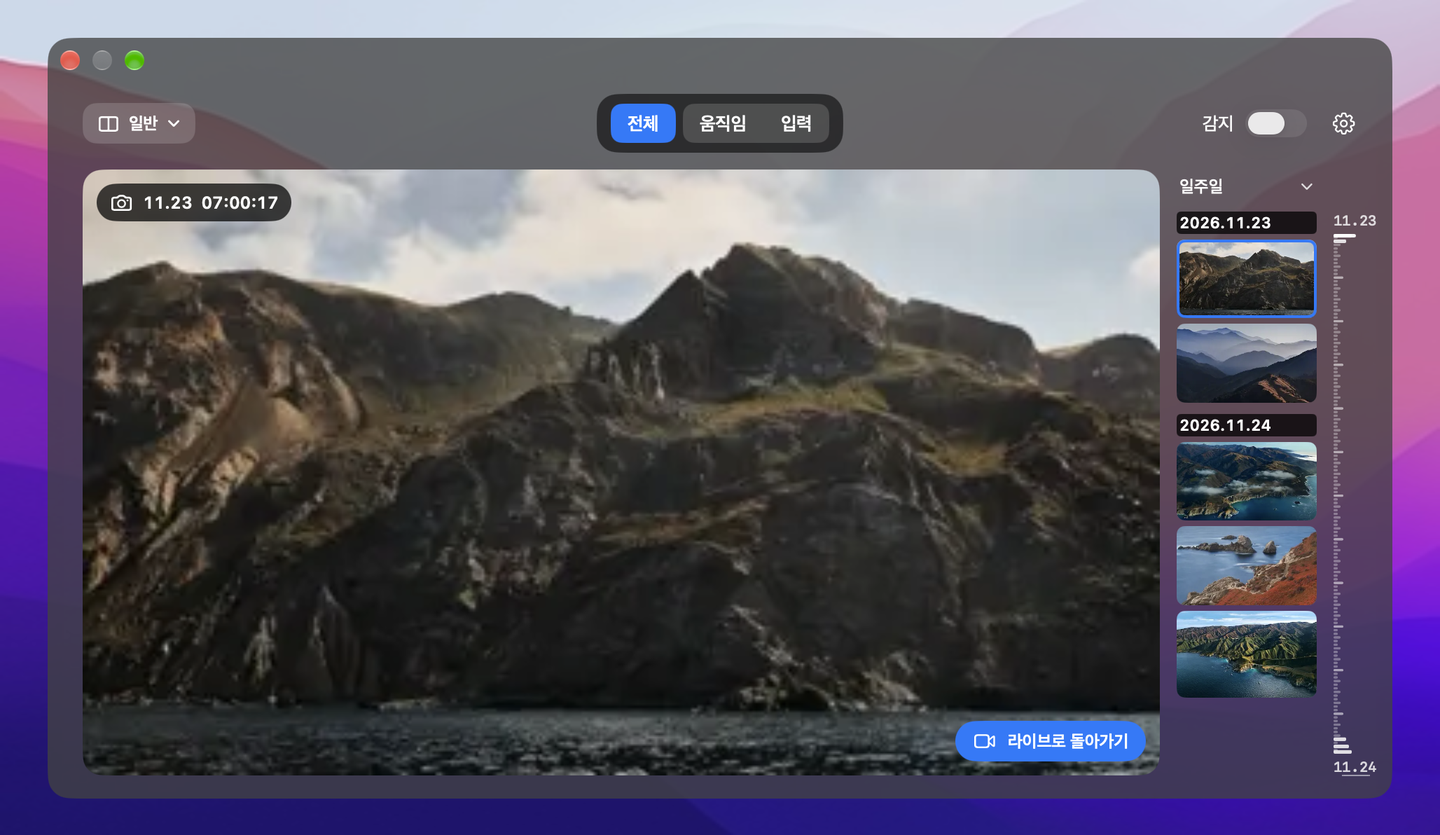
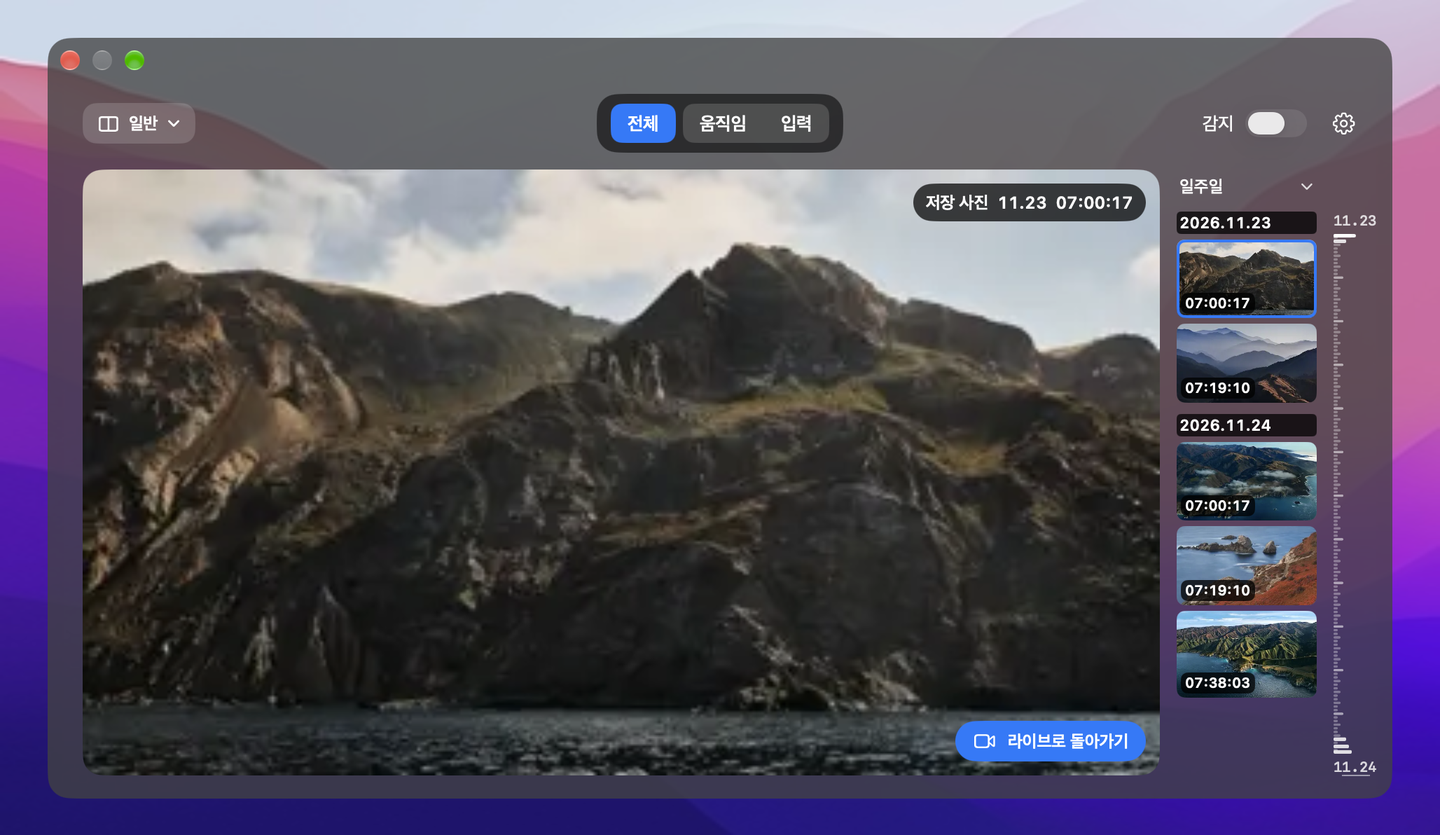
자리기록 0.3.13 썸네일 촬영 시각과 온에어 시계 표시

diff --git a/Sources/StandardGallery.swift b/Sources/StandardGallery.swift
@@ -101,6 +101,22 @@ struct StandardGallery: View {
         .accessibilityAddTraits(selected == item ? .isSelected : [])
     }
 
+    private func timestamp(_ title: String, date: Date? = nil, live: Bool = false) -> some View {
+        HStack(spacing: 6) {
+            if live {
+                Circle().fill(.green).frame(width: 6, height: 6).accessibilityHidden(true)
+            }
+            Text(title)
+            if let date { Text(ArchiveText.fullStamp.string(from: date)).monospacedDigit() }
+        }
+        .font(.system(size: 12, weight: .semibold))
+        .lineLimit(1).minimumScaleFactor(0.8)
+        .padding(.horizontal, 9).padding(.vertical, 6)
+        .background(.black.opacity(0.72), in: Capsule()).padding(10)
+        .accessibilityElement(children: .combine)
+        .allowsHitTesting(false)
+    }
+
     private var viewer: some View {
         let ratio = selected.flatMap { Picture.aspectRatio(at: $0.url) } ?? feed.displayRatio ?? GalleryLayout.defaultVideoAspect
         return Color.clear.aspectRatio(ratio, contentMode: .fit)
@@ -123,18 +139,18 @@ struct StandardGallery: View {
         .background {
             if selected == nil && feed.preview == nil { Color.black.opacity(0.56) }
         }
-        .overlay(alignment: .topLeading) {
-            HStack(spacing: 6) {
-                if let selected {
-                    Image(systemName: selected.kind.symbol)
-                    Text(ArchiveText.fullStamp.string(from: selected.date)).monospacedDigit()
-                } else {
-                    Image(systemName: "video")
-                    Text(feed.preview == nil ? "카메라" : "온에어")
+        .overlay(alignment: .topTrailing) {
+            if let selected {
+                timestamp("저장 사진", date: selected.date)
+            } else if feed.preview != nil {
+                TimelineView(.periodic(from: .now, by: 1)) { _ in
+                    if let date = feed.previewFrameDate(at: .now) {
+                        timestamp("온에어", date: date, live: true)
+                    } else {
+                        timestamp("영상 대기")
+                    }
                 }
-            }.font(.system(size: 12, weight: .semibold))
-            .padding(.horizontal, 9).padding(.vertical, 6)
-            .background(.black.opacity(0.72), in: Capsule()).padding(10)
+            }
         }
         .overlay(alignment: .bottomTrailing) {
             if selected != nil {

diff --git a/Sources/ArchiveBrowser.swift b/Sources/ArchiveBrowser.swift
@@ -85,33 +85,29 @@ struct RecordThumbnail: View {
     let record: CaptureRecord
     let selected: Bool
     var mode: GalleryMode = .mini
-    @State private var hovered = false
 
     var body: some View {
         let shape = RoundedRectangle(cornerRadius: mode == .mini ? 12 : 6, style: .continuous)
         let tile = shape.fill(GlassInk.capsule)
             .overlay { FileImage(url: record.url, detail: false, contentMode: mode == .mini ? .fill : .fit) }
             .overlay(alignment: .bottomLeading) {
-                if mode == .mini || hovered {
-                    HStack(spacing: 5) {
-                        if mode == .mini { Image(systemName: record.kind.symbol) }
-                        Text(ArchiveText.clock.string(from: record.date))
-                    }
-                    .font(.system(size: 10, weight: .semibold)).monospacedDigit()
-                    .lineLimit(1).padding(.horizontal, mode == .mini ? 6 : 3)
-                    .padding(.vertical, mode == .mini ? 3 : 1)
-                    .background(.black.opacity(0.76), in: RoundedRectangle(cornerRadius: 5))
-                    .padding(mode == .mini ? 6 : 3)
-                    .allowsHitTesting(false)
-                    .accessibilityHidden(true)
+                HStack(spacing: 5) {
+                    if mode == .mini { Image(systemName: record.kind.symbol) }
+                    Text(ArchiveText.clock.string(from: record.date))
                 }
+                .font(.system(size: 10, weight: .semibold)).monospacedDigit()
+                .lineLimit(1).padding(.horizontal, mode == .mini ? 6 : 3)
+                .padding(.vertical, mode == .mini ? 3 : 1)
+                .background(.black.opacity(0.76), in: RoundedRectangle(cornerRadius: 5))
+                .padding(mode == .mini ? 6 : 3)
+                .allowsHitTesting(false)
+                .accessibilityHidden(true)
             }
             .clipShape(shape)
             .overlay { if selected { shape.strokeBorder(GlassInk.blue, lineWidth: mode == .mini ? 3 : 2) } }
             .contentShape(shape)
         if mode == .standard {
             tile.aspectRatio(Picture.aspectRatio(at: record.url) ?? 1, contentMode: .fit)
-                .onHover { hovered = $0 }
         } else {
             tile
         }

diff --git a/Tests/Checks.swift b/Tests/Checks.swift
@@ -33,11 +33,19 @@ struct Checks {
         RunLoop.current.run(until: Date().addingTimeInterval(0.1))
         let session = feed.preview
         try expect(session != nil && starts == 1, "live preview starts one camera")
-        for (width, height) in [(320, 240), (640, 360)] {
+        try expect(feed.previewFrameDate(at: .now) == nil, "a camera session alone cannot show an on-air clock")
+        let firstFrame = Date(timeIntervalSince1970: 1_795_500_000)
+        for (index, dimensions) in [(320, 240), (640, 360)].enumerated() {
+            let (width, height) = dimensions
+            let received = firstFrame.addingTimeInterval(Double(index) * 5)
             var buffer: CVPixelBuffer?
             guard CVPixelBufferCreate(nil, width, height, kCVPixelFormatType_32BGRA, nil, &buffer) == kCVReturnSuccess,
                   let buffer, let source else { throw AppProblem("라이브 비율 시험 프레임 생성 실패") }
-            source.processFrame(buffer)
+            source.processFrame(buffer, receivedAt: received)
+            try expect(feed.previewFrameDate(at: received.addingTimeInterval(1)) == received,
+                       "only the arrival of a new frame advances the on-air clock")
+            try expect(feed.previewFrameDate(at: received.addingTimeInterval(2)) == nil,
+                       "a stalled stream loses its on-air timestamp")
             RunLoop.current.run(until: Date().addingTimeInterval(0.05))
             try expect(feed.displayRatio == CGFloat(width) / CGFloat(height), "live surface follows the received frame aspect before arming")
         }
@@ -49,6 +57,8 @@ struct Checks {
         RunLoop.current.run(until: Date().addingTimeInterval(0.1))
         try expect(armed && starts == 1, "arming motion reuses the preview camera")
         feed.showPreview(false)
+        try expect(feed.previewFrameDate(at: firstFrame.addingTimeInterval(5)) == nil,
+                   "a hidden preview omits the clock even if detection keeps the camera open")
         feed.showPreview(true)
         RunLoop.current.run(until: Date().addingTimeInterval(0.1))
         try expect(feed.preview === session && starts == 1, "toggling views preserves armed camera")

diff --git a/Sources/MotionCamera.swift b/Sources/MotionCamera.swift
@@ -1,5 +1,6 @@
 import AVFoundation
 import CoreImage
+import os
 
 // The session, gate and observers are confined to the serial camera queue.
 final class MotionCamera: NSObject, AVCaptureVideoDataOutputSampleBufferDelegate, @unchecked Sendable {
@@ -7,6 +8,8 @@ final class MotionCamera: NSObject, AVCaptureVideoDataOutputSampleBufferDelegate
     let session = AVCaptureSession()
     private let context = CIContext(options: [.cacheIntermediates: false])
     private var observers = [NSObjectProtocol]()
+    // The capture queue writes here; only the on-screen clock samples the value.
+    private let frameDate = OSAllocatedUnfairLock<Date?>(initialState: nil)
     private var lastSample = -Double.infinity
     private var gate: MotionGate?
     private var onImage: (@Sendable (CGImage, Date) -> Void)?
@@ -88,7 +91,15 @@ final class MotionCamera: NSObject, AVCaptureVideoDataOutputSampleBufferDelegate
         processFrame(buffer)
     }
 
-    func processFrame(_ buffer: CVPixelBuffer) {
+    func recentFrameDate(at now: Date) -> Date? {
+        frameDate.withLock { received in
+            guard let received, abs(now.timeIntervalSince(received)) < 2 else { return nil }
+            return received
+        }
+    }
+
+    func processFrame(_ buffer: CVPixelBuffer, receivedAt date: Date = .now) {
+        frameDate.withLock { $0 = date }
         let size = CVImageBufferGetDisplaySize(buffer)
         if size.width > 0, size.height > 0, size != lastDisplaySize {
             lastDisplaySize = size
@@ -98,7 +109,6 @@ final class MotionCamera: NSObject, AVCaptureVideoDataOutputSampleBufferDelegate
         guard let onImage, now - lastSample >= 0.18 else { return }
         lastSample = now
         guard gate?.shouldCapture(Self.luminance(buffer), at: now) == true else { return }
-        let date = Date()
         let source = CIImage(cvPixelBuffer: buffer)
         guard let image = context.createCGImage(source, from: source.extent) else {
             onFailure("카메라에서 사진을 만들지 못했습니다.")

diff --git a/Sources/CameraFeed.swift b/Sources/CameraFeed.swift
@@ -54,6 +54,11 @@ final class CameraFeed: ObservableObject {
         }
     }
 
+    func previewFrameDate(at now: Date) -> Date? {
+        guard preview != nil else { return nil }
+        return camera?.recentFrameDate(at: now)
+    }
+
     func beginDetection(minutes: Int, lastMotion: Date? = nil, onImage: @escaping @Sendable (CGImage, Date) -> Void,
                         onFailure: @escaping (String) -> Void) async throws {
         let id = UUID()

diff --git a/README.md b/README.md
@@ -4,7 +4,7 @@
 
 **macOS 14 이상 · Apple Silicon 및 Intel 지원**
 
-[자리기록 0.3.12 설치 파일 받기](https://github.com/sundaynighttt/desk-trace/releases/download/v0.3.12/DeskTrace-0.3.12.dmg) · [릴리스 기록](https://github.com/sundaynighttt/desk-trace/releases)
+[자리기록 0.3.13 설치 파일 받기](https://github.com/sundaynighttt/desk-trace/releases/download/v0.3.13/DeskTrace-0.3.13.dmg) · [릴리스 기록](https://github.com/sundaynighttt/desk-trace/releases)
 
 ![시험용 사진으로 본 일반 모드. 왼쪽에 선택한 사진이 크게 보이고 오른쪽에 날짜별 사진 목록과 시작일·종료일을 표시한 세로 시간 눈금이 있습니다.](docs/gallery.png)
 
@@ -38,12 +38,12 @@
 | --- | --- | --- |
 | 화면 구성 | 작은 사진 한 줄과 아래쪽 시간축. 처음에는 사진 한 줄에 맞는 최소 높이로 열립니다. | 왼쪽에 라이브 영상 또는 선택한 사진, 오른쪽에 날짜별 사진 목록과 세로 시간축이 있습니다. |
 | 탐색 방향 | 왼쪽이 과거, 오른쪽이 최신입니다. 처음 열거나 필터를 바꾸면 최신 사진이 보입니다. | 위가 과거, 아래가 최신입니다. 스크롤하면 오른쪽 사진 목록만 움직입니다. |
-| 기간과 촬영 시각 | 왼쪽 상단에서 기간을 고릅니다. 각 사진에 촬영 시각이 항상 보입니다. | 사진 목록 맨 위에서 기간을 고릅니다. 스크롤 중에도 해당 날짜가 남고, 사진을 가리키면 그 사진 안에 촬영 시각이 보입니다. |
+| 기간과 촬영 시각 | 왼쪽 상단에서 기간을 고릅니다. 각 사진에 촬영 시각이 항상 보입니다. | 사진 목록 맨 위에서 기간을 고릅니다. 스크롤 중에도 해당 날짜가 남고, 각 사진 왼쪽 아래에 촬영 시각(시·분·초)이 항상 보입니다. |
 | 사진 선택 | 사진을 클릭하면 원래 비율로 크게 열립니다. 아래 눈금을 가리키면 해당 기록이 보이고, 클릭하면 선택이 고정됩니다. 좌우 방향키로 이동할 수 있습니다. | 사진이나 눈금을 클릭하면 왼쪽에 해당 사진이 원래 비율로 표시됩니다. 사진 오른쪽 아래의 **라이브로 돌아가기**를 누르면 현재 카메라 영상으로 돌아갑니다. |
 
 미니 모드에서는 노란 막대가 현재 보고 있는 기록을 가리킵니다. 일반 모드에서는 **짧은 흰색 눈금**이 선택한 사진을 가리키고, 라이브 화면에서는 조회 조건 안의 최신 기록을 가리킵니다. 사진과 시간축 사이는 12포인트이며, 양 끝의 월·일과 모든 눈금은 같은 왼쪽 선에서 시작합니다.
 
-일반 모드의 라이브 영상은 카메라가 보내는 화면 비율로 표시합니다. 촬영 정보와 **라이브로 돌아가기** 버튼은 사진 위에 겹쳐 표시됩니다. 과거 사진을 보고 있는 동안 새 기록이 들어와도 선택한 사진과 목록 위치가 유지됩니다. 조회 조건을 바꿔 그 사진이 목록에서 빠지면 라이브로 돌아갑니다. 감지를 끄고 라이브만 볼 때는 저장하지 않으며, 카메라 권한이 없어도 저장된 사진은 열 수 있습니다.
+일반 모드의 라이브 영상은 카메라가 보내는 화면 비율로 표시합니다. 영상 오른쪽 위의 초록 점과 **온에어** 옆에는 카메라에서 받은 최신 영상의 월·일과 시·분·초가 보입니다. 영상 수신이 멎으면 시간이 더 흐르지 않고 **영상 대기**로 바뀝니다. 저장 사진을 선택하면 같은 자리에 **저장 사진**과 고정된 촬영 시각이 표시됩니다. **라이브로 돌아가기** 버튼은 사진 오른쪽 아래에 있습니다. 과거 사진을 보고 있는 동안 새 기록이 들어와도 선택한 사진과 목록 위치가 유지됩니다. 조회 조건을 바꿔 그 사진이 목록에서 빠지면 라이브로 돌아갑니다. 감지를 끄고 라이브만 볼 때는 저장하지 않으며, 카메라 권한이 없어도 저장된 사진은 열 수 있습니다.
 
 <details>
 <summary>미니 모드 화면 보기</summary>
@@ -55,7 +55,7 @@
 <details>
 <summary>화면 설계 기준</summary>
 
-일반 모드의 오른쪽 저장 사진은 같은 창에서 0.3.0 사진 폭의 1/3에 가장 가까운 짝수 포인트로 표시합니다. 사진 높이는 저장된 원본의 가로·세로 비율에 맞춥니다. 960포인트 창에서 폭은 100포인트이고, 16:9 사진의 높이는 약 56포인트, 정사각형 사진은 100포인트입니다. 사진 목록의 기간 메뉴는 사진과 같은 폭의 24포인트 높이 줄입니다. 선택한 기간은 첫 날짜와 왼쪽을 맞추고 펼침 화살표는 오른쪽에 둡니다. 평소 배경은 투명하고, 포인터를 올리면 옅은 회색 배경이 나타납니다. 줄 전체를 눌러 기간을 선택합니다. 시간축의 날짜는 10포인트 고정폭 글꼴을 사용하고, 시간축 영역 오른쪽과 창 가장자리 사이에는 10포인트를 둡니다. 날짜는 맥의 현지 날짜별 묶음 맨 위에 한 번 표시합니다. 사진에 포인터를 올리면 해당 사진의 왼쪽 아래에 촬영 시각(시:분:초)이 겹쳐 보이고, 포인터를 떼면 사라집니다. 같은 날의 기록 사이에는 4포인트 간격을 둡니다.
+일반 모드의 오른쪽 저장 사진은 같은 창에서 0.3.0 사진 폭의 1/3에 가장 가까운 짝수 포인트로 표시합니다. 사진 높이는 저장된 원본의 가로·세로 비율에 맞춥니다. 960포인트 창에서 폭은 100포인트이고, 16:9 사진의 높이는 약 56포인트, 정사각형 사진은 100포인트입니다. 사진 목록의 기간 메뉴는 사진과 같은 폭의 24포인트 높이 줄입니다. 선택한 기간은 첫 날짜와 왼쪽을 맞추고 펼침 화살표는 오른쪽에 둡니다. 평소 배경은 투명하고, 포인터를 올리면 옅은 회색 배경이 나타납니다. 줄 전체를 눌러 기간을 선택합니다. 시간축의 날짜는 10포인트 고정폭 글꼴을 사용하고, 시간축 영역 오른쪽과 창 가장자리 사이에는 10포인트를 둡니다. 날짜는 맥의 현지 날짜별 묶음 맨 위에 한 번 표시합니다. 촬영 시각은 각 사진 왼쪽 아래의 작은 반투명 배경 위에 항상 표시합니다. 같은 날의 기록 사이에는 4포인트 간격을 둡니다.
 
 가운데 필터의 어두운 배경에는 버튼 바깥으로 좌우 각각 10포인트, 위아래 각각 7포인트의 여백을 둡니다. 전체 버튼 옆에 움직임과 입력을 차례로 붙입니다. 움직임의 왼쪽 위·아래, 입력의 오른쪽 위·아래를 둥글게 하고 가운데 맞닿는 모서리는 직각으로 연결합니다. 미니 모드의 기본 창에는 약 7장의 사진이 보입니다. 상단 버튼과 사진, 사진과 물결 눈금 영역 사이의 간격은 각각 12포인트입니다. 미니 모드의 사진 줄과 하단 시간 눈금은 상단과 같은 25포인트의 좌우 여백을 사용합니다. 사진을 가리키면 파란 테두리가 생깁니다. 사진은 같은 간격으로 배치하고 시간 눈금은 실제 시간 간격을 따릅니다. 미니 모드로 전환하면 한 줄 높이에 맞춰지고, 이후 창 크기를 조절할 수 있습니다. 모드 버튼 왼쪽과 설정 버튼 오른쪽에 같은 여백을 둡니다. 배경은 어두운 반투명이고, 선택한 필터는 파란색, 나머지는 반투명 회색입니다. 시스템에서 투명도 줄이기를 켜면 단색 배경을 사용하고, 동작 줄이기를 켜면 시간 눈금의 물결 높이를 고정합니다. 빈 목록, 필터 결과 없음, 한 장, 같은 시각의 여러 기록을 모두 지원합니다.
 
@@ -81,7 +81,8 @@
 | 0.3.8~0.3.9 | 일반 모드에서 사진을 가리킬 때만 시각을 표시하고, 세로 시간축 양 끝에는 날짜 한 줄을 두고 눈금을 왼쪽에 맞췄습니다. |
 | 0.3.10 | 사진과 시간축 사이를 6포인트에서 12포인트로 늘렸습니다. 날짜 글자 끝과 창 오른쪽 가장자리 사이도 약 12포인트로 맞췄습니다. |
 | 0.3.11 | 일반 모드의 온에어 화면으로 시작합니다. 저장 사진을 본 뒤 사진 오른쪽 아래의 **라이브로 돌아가기**로 온에어에 복귀할 수 있습니다. |
-| **0.3.12** | 업데이트·재실행 뒤 감지 스위치와 진행 중인 촬영 대기를 복원합니다. |
+| 0.3.12 | 업데이트·재실행 뒤 감지 스위치와 진행 중인 촬영 대기를 복원합니다. |
+| **0.3.13** | 일반 모드 썸네일에 촬영 시각을 항상 표시하고, 큰 화면 오른쪽 위에서 온에어 시계와 저장 사진의 촬영 시각을 구분합니다. |
 
 0.2.2부터 공개한 버전별 설치 파일과 변경 내용은 [공개 릴리스 목록](https://github.com/sundaynighttt/desk-trace/releases)에서 확인할 수 있습니다.
 
@@ -95,6 +96,6 @@
 ./scripts/package.sh
 ```
 
-빌드 시 공식 libwebp 소스를 내려받아 고정된 SHA-256 값을 확인합니다. 완성된 앱에는 인코더가 포함됩니다. 설치하는 맥에는 위 개발 도구가 필요하지 않습니다. 기본 산출물은 `.build/자리기록.app`과 `.build/DeskTrace-0.3.12.dmg`입니다. Apple Silicon과 Intel용 코드를 함께 포함합니다. 위 명령은 로컬 시험용 서명을 사용합니다. 공개 배포용 DMG는 빌드 후 `DESKTRACE_SIGN_IDENTITY`에 Developer ID Application 인증서를, `DESKTRACE_NOTARY_PROFILE`에 Apple 공증용 키체인 프로필 이름을 지정하고 `./scripts/release.sh`를 실행하면 생성됩니다. 스크립트는 앱과 DMG에 서명하고 Apple 공증을 받은 뒤 공증 확인표를 첨부해 검증합니다.
+빌드 시 공식 libwebp 소스를 내려받아 고정된 SHA-256 값을 확인합니다. 완성된 앱에는 인코더가 포함됩니다. 설치하는 맥에는 위 개발 도구가 필요하지 않습니다. 기본 산출물은 `.build/자리기록.app`과 `.build/DeskTrace-0.3.13.dmg`입니다. Apple Silicon과 Intel용 코드를 함께 포함합니다. 위 명령은 로컬 시험용 서명을 사용합니다. 공개 배포용 DMG는 빌드 후 `DESKTRACE_SIGN_IDENTITY`에 Developer ID Application 인증서를, `DESKTRACE_NOTARY_PROFILE`에 Apple 공증용 키체인 프로필 이름을 지정하고 `./scripts/release.sh`를 실행하면 생성됩니다. 스크립트는 앱과 DMG에 서명하고 Apple 공증을 받은 뒤 공증 확인표를 첨부해 검증합니다.
 
 WebP 라이브러리의 저작권 및 특허 안내는 `Notices/`와 앱 번들의 Resources에 포함됩니다.
